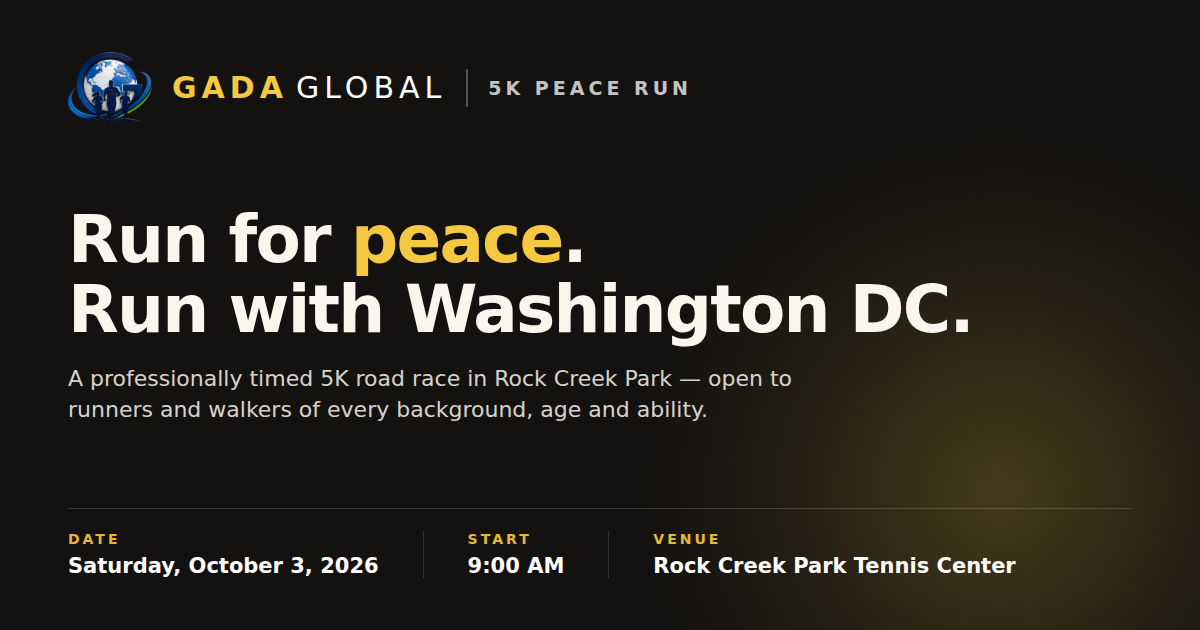
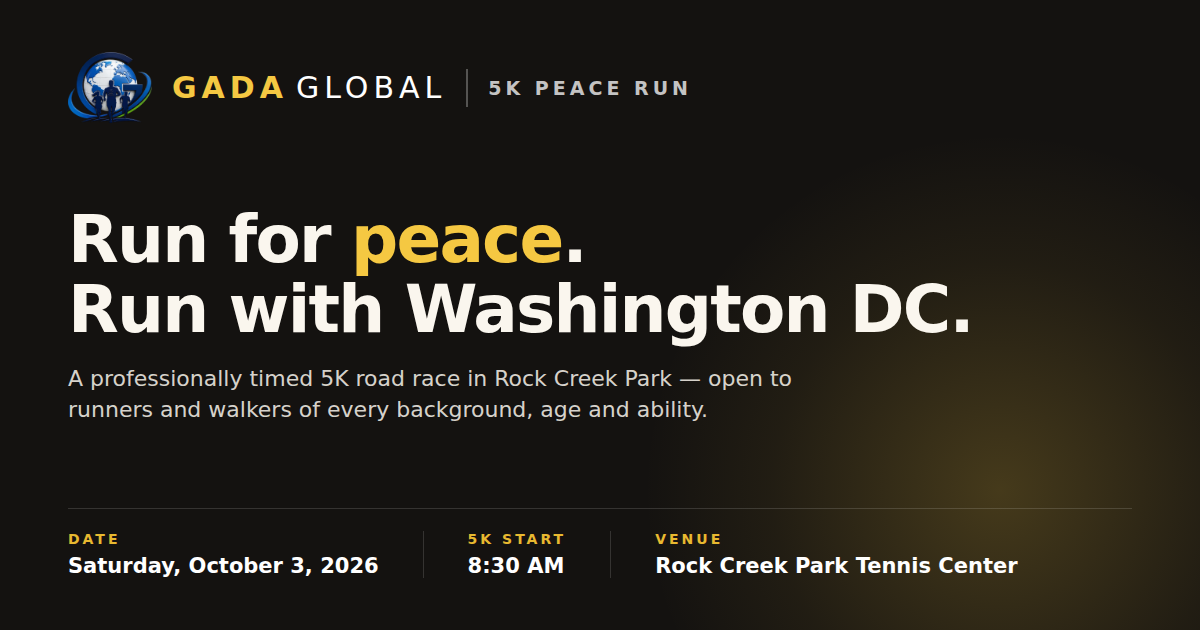
Share card: 8:30 AM 5K start, fresh image URL (#38)
public/og.png still read "Start 9:00 AM". Re-rendered from design/og/og.html
with the 5K start at 8:30, and the image URL now carries ?v=3 so platforms
that cached the old card fetch the new one.

Claude-Session: https://claude.ai/code/session_018gPzT8WQmRwmAPTyGHJjN9

Changed region(s): [[0.5242, 0.8444, 0.8633, 0.9349], [0.37, 0.8444, 0.4625, 0.9048]]

diff --git a/src/app/layout.tsx b/src/app/layout.tsx
@@ -50,7 +50,8 @@ export const metadata: Metadata = {
     locale: "en_US",
     images: [
       {
-        url: "/og.png",
+        // Bump ?v= whenever the card changes: platforms cache images by URL.
+        url: "/og.png?v=3",
         width: 1200,
         height: 630,
         alt: `${EVENT.name} — ${EVENT.date}, ${EVENT.location}, Washington DC`,
@@ -61,7 +62,7 @@ export const metadata: Metadata = {
     card: "summary_large_image",
     title: SHARE_TITLE,
     description: SHARE_DESCRIPTION,
-    images: ["/og.png"],
+    images: ["/og.png?v=3"],
   },
 };
 

diff --git a/design/og/og.html b/design/og/og.html
@@ -42,7 +42,7 @@
   </div>
   <div class="bar">
     <div class="cell"><div class="k">Date</div><div class="v">Saturday, October 3, 2026</div></div>
-    <div class="cell"><div class="k">Start</div><div class="v">9:00 AM</div></div>
+    <div class="cell"><div class="k">5K Start</div><div class="v">8:30 AM</div></div>
     <div class="cell"><div class="k">Venue</div><div class="v">Rock Creek Park Tennis Center</div></div>
   </div>
 </body>
